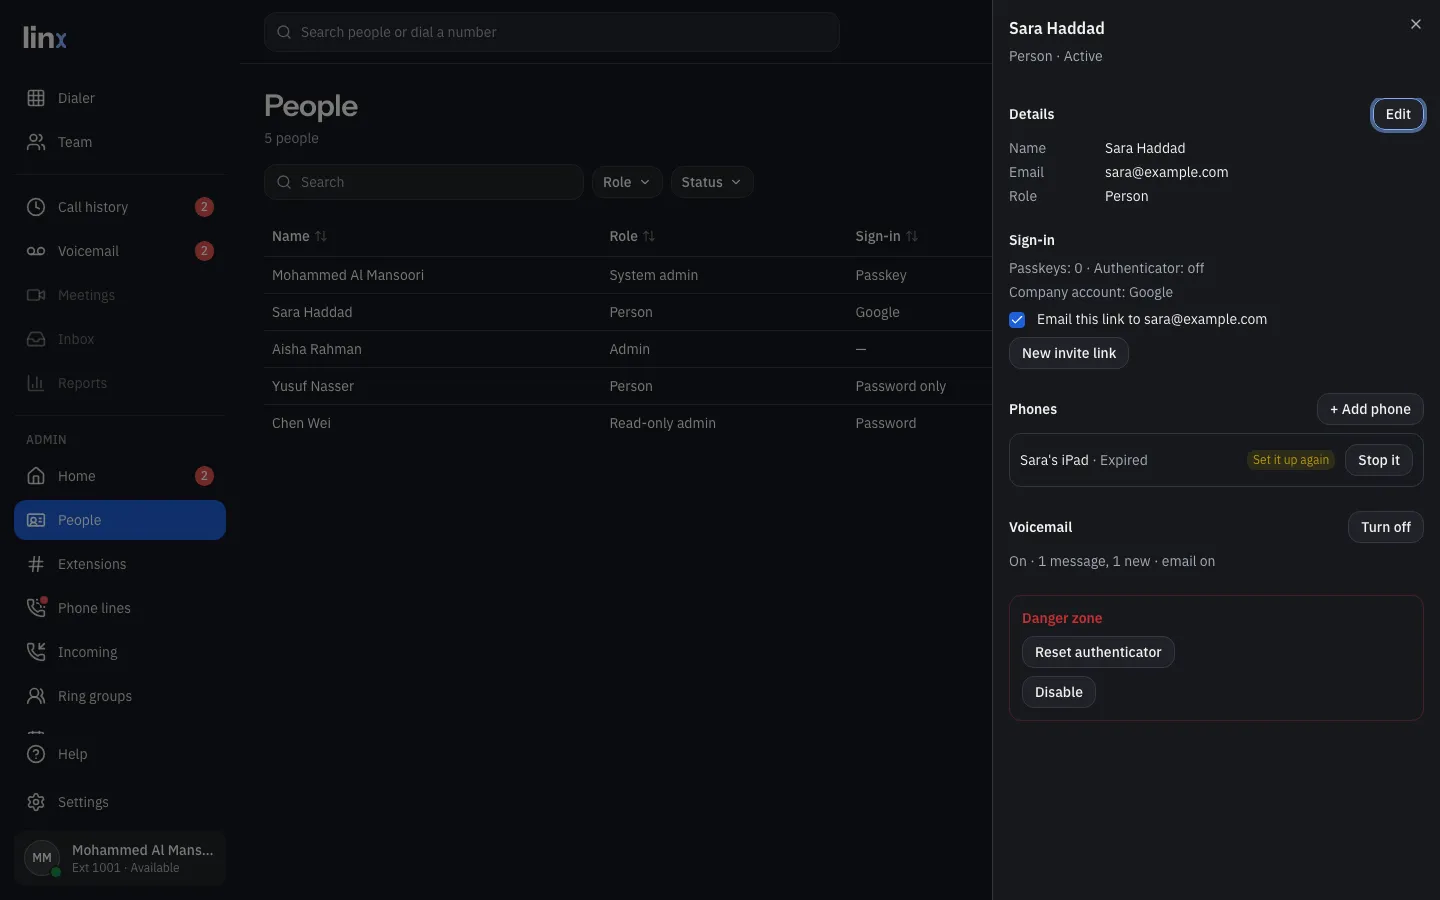
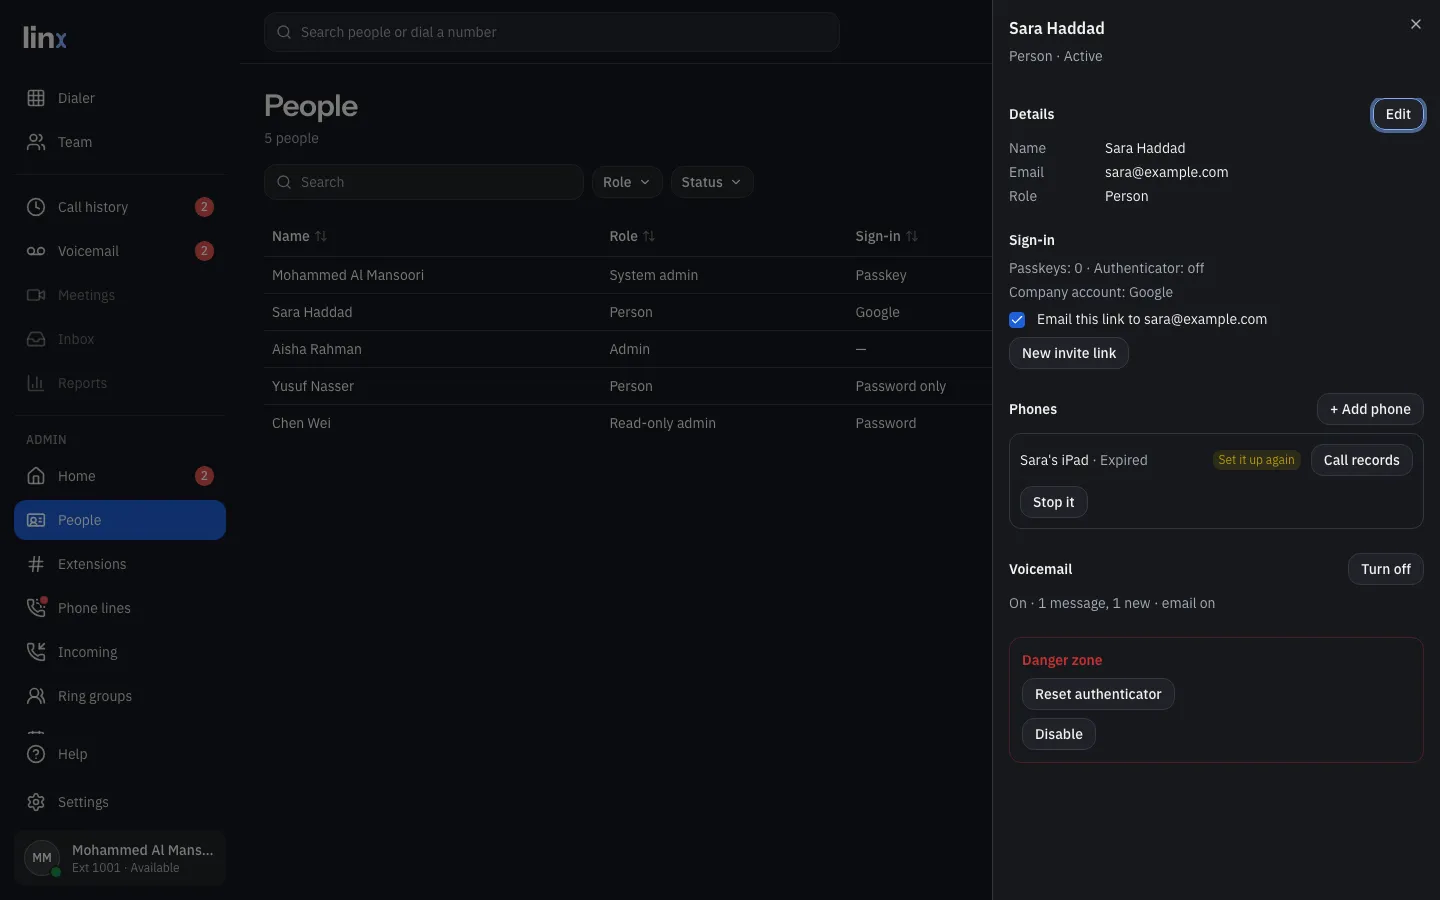
People: Call records beside each iPhone and iPad
Opens the last seven days of what that phone saw of its calls, newest
first, each one expandable with Copy. The help guide's new section 'When
a call went wrong (admins)' says what's in one and what never is.

Claude-Session: https://claude.ai/code/session_01EoSCBWDKWy6VASLQMKqTyy

diff --git a/web/src/components/CallRecords.tsx b/web/src/components/CallRecords.tsx
@@ -1,0 +1,79 @@
+// What an iPhone or iPad saw of its recent calls (internal/callreport): the
+// Linx app sends one after every call, kept seven days. For an admin
+// working out why a call went wrong, without a cable to the phone or
+// someone pasting text from its Call details screen.
+import { useEffect, useState } from "react";
+import { api } from "@/api/client";
+import type { components } from "@/api/schema";
+import { Button } from "@/components/ui/button";
+import { Dialog, DialogContent, DialogDescription, DialogHeader, DialogTitle } from "@/components/ui/dialog";
+
+type Device = components["schemas"]["Device"];
+type CallReport = components["schemas"]["CallReport"];
+
+const when = (iso: string) =>
+  new Date(iso).toLocaleString(undefined, { day: "numeric", month: "short", hour: "2-digit", minute: "2-digit", second: "2-digit" });
+
+/** "Incoming from 201 · 11 Oct, 16:06:10 · 42 s". */
+export function callReportTitle(r: CallReport): string {
+  const way = r.direction === "incoming" ? `Incoming from ${r.peer || "a hidden number"}` : `Outgoing to ${r.peer}`;
+  const secs = r.ended_at ? Math.round((new Date(r.ended_at).getTime() - new Date(r.started_at).getTime()) / 1000) : null;
+  return [way, when(r.started_at), secs === null ? null : `${secs} s`].filter(Boolean).join(" · ");
+}
+
+export function CallRecordsDialog({ device, onClose }: { device: Device | null; onClose: () => void }) {
+  const [reports, setReports] = useState<CallReport[] | null>(null);
+  const [copied, setCopied] = useState<string | null>(null);
+
+  useEffect(() => {
+    if (!device) return;
+    let live = true;
+    setReports(null);
+    void (async () => {
+      const { data } = await api.GET("/api/v1/devices/{id}/call-reports", { params: { path: { id: device.id } } });
+      if (live) setReports(data?.items ?? []);
+    })();
+    return () => { live = false; };
+  }, [device]);
+
+  const copy = async (r: CallReport) => {
+    try {
+      await navigator.clipboard.writeText(r.report);
+      setCopied(r.id);
+    } catch {
+      setCopied(null);
+    }
+  };
+
+  return (
+    <Dialog open={!!device} onOpenChange={(o) => { if (!o) onClose(); }}>
+      <DialogContent className="sm:max-w-2xl">
+        <DialogHeader>
+          <DialogTitle>Call records: {device?.name}</DialogTitle>
+          <DialogDescription>
+            What this phone saw of each call it made or took in the last seven days, newest first. It sends one after
+            every call: how the call was set up, the route it took and the sound in and out. Never the sound itself.
+          </DialogDescription>
+        </DialogHeader>
+        <div className="flex max-h-[60vh] flex-col gap-2 overflow-y-auto">
+          {reports === null && <p className="text-sm text-muted-foreground">Loading…</p>}
+          {reports?.length === 0 && (
+            <p className="text-sm text-muted-foreground">
+              No calls yet. A phone sends its record when a call ends, from Linx app build 19 on.
+            </p>
+          )}
+          {reports?.map((r) => (
+            <details key={r.id} className="rounded-md border p-2.5 text-sm">
+              <summary className="cursor-pointer font-medium">{callReportTitle(r)}</summary>
+              <pre className="mt-2 whitespace-pre-wrap break-words rounded bg-muted p-2 font-mono text-xs">{r.report}</pre>
+              <div className="mt-2 flex items-center gap-2">
+                <Button size="sm" variant="outline" onClick={() => void copy(r)}>Copy</Button>
+                {copied === r.id && <span className="text-xs text-muted-foreground" role="status">Copied.</span>}
+              </div>
+            </details>
+          ))}
+        </div>
+      </DialogContent>
+    </Dialog>
+  );
+}

diff --git a/web/src/screens/People.tsx b/web/src/screens/People.tsx
@@ -6,6 +6,7 @@ import { api, problemMessage, type Me } from "@/api/client";
 import type { components } from "@/api/schema";
 import { AddChooserDialog, useAlwaysQuickAdd } from "@/components/AddChooser";
 import { AddPhoneDialog, PhoneRow } from "@/components/AddPhone";
+import { CallRecordsDialog } from "@/components/CallRecords";
 import { needsConfirm, useConfirmIdentity } from "@/components/ConfirmIdentity";
 import { DataTable } from "@/components/DataTable";
 import { Dot } from "@/components/presence";
@@ -382,6 +383,7 @@ function PhonesSection({ me, user, emailOn }: { me: Me; user: User; emailOn: boo
   const [phones, setPhones] = useState<Device[] | null>(null);
   const [adding, setAdding] = useState(false);
   const [removing, setRemoving] = useState<Device | null>(null);
+  const [records, setRecords] = useState<Device | null>(null);
   const [now, setNow] = useState(() => Date.now());
 
   const load = useCallback(async () => {
@@ -415,11 +417,15 @@ function PhonesSection({ me, user, emailOn }: { me: Me; user: User; emailOn: boo
         {phones?.length === 0 && user.extension_id && <p className="text-sm text-muted-foreground">No iPhone or iPad yet.</p>}
         {phones?.map((d) => (
           <PhoneRow key={d.id} device={d} now={now}
-            actions={<Button size="sm" variant="outline" onClick={() => setRemoving(d)}>Stop it</Button>} />
+            actions={<>
+              <Button size="sm" variant="outline" onClick={() => setRecords(d)}>Call records</Button>
+              <Button size="sm" variant="outline" onClick={() => setRemoving(d)}>Stop it</Button>
+            </>} />
         ))}
       </div>
       <AddPhoneDialog me={me} open={adding} onOpenChange={setAdding} personName={user.name} userId={user.id}
         emailOn={emailOn} isMe={false} onSetUp={() => void load()} />
+      <CallRecordsDialog device={records} onClose={() => setRecords(null)} />
       <Dialog open={!!removing} onOpenChange={(o) => { if (!o) setRemoving(null); }}>
         <DialogContent>
           <DialogHeader>

diff --git a/web/e2e/fakes.ts b/web/e2e/fakes.ts
@@ -746,6 +746,22 @@ export async function fakeServer(page: Page, opts: FakeOptions = {}) {
       if (d) d.revoked_at = now();
       return route.fulfill({ status: 204 });
     }
+    if (devId && p === `/api/v1/devices/${devId}/call-reports` && method === "GET") {
+      const started = new Date(Date.now() - 20 * 60_000);
+      const report = [
+        "Linx call details", "to: 1024", "connection: connected", "route: relayed (udp)",
+        "sound in: 6839 bytes, out: 11725 bytes", "round trip: 214 ms", "found: this network, the internet, Linx's relay",
+        "+2.0 s Answered", "+2.3 s Route now relay/udp → host/udp 172.24.0.2", "+2.4 s First sound arrived",
+        "this phone offered: host/udp, relay/tls, relay/udp, srflx/udp", "routes tried:",
+        "  relay/udp → host/udp 172.24.0.2: succeeded, in use, 214 ms",
+        "sip:", "  +0.0 s ← INVITE", "  +0.0 s → 180 Ringing", "  +2.0 s → 200 OK", "  +2.1 s ← ACK", "  +42.0 s ← BYE",
+      ].join("\n");
+      return route.fulfill(json({ items: [{
+        id: "cr1", call_id: "a84bc93d4c3f@pbx", direction: "incoming", peer: "1024",
+        started_at: started.toISOString(), ended_at: new Date(started.getTime() + 42_000).toISOString(),
+        report, created_at: new Date(started.getTime() + 43_000).toISOString(),
+      }] }));
+    }
     if (devId && p === `/api/v1/devices/${devId}/reset-password` && method === "POST") {
       const d = people.devices.find((x) => x.id === devId);
       if (!d) return route.fulfill(json({ type: "about:blank", title: "Not Found", status: 404, code: "not_found", detail: "No." }, 404));

diff --git a/web/e2e/screens.spec.ts b/web/e2e/screens.spec.ts
@@ -380,6 +380,13 @@ for (const scheme of ["light", "dark"] as const) {
       await expect(page.getByText("Sara's iPad")).toBeVisible();
       await expect(page.getByText("Set it up again")).toBeVisible();
       await shot(page, `${scheme}-person-phones`);
+      // What the phone saw of its calls, for working out what went wrong.
+      await page.getByRole("button", { name: "Call records" }).first().click();
+      await expect(page.getByRole("heading", { name: /Call records:/ })).toBeVisible();
+      await page.getByText(/Incoming from 1024/).click();
+      await expect(page.getByText("route: relayed (udp)", { exact: false })).toBeVisible();
+      await shot(page, `${scheme}-phone-call-records`);
+      await page.keyboard.press("Escape");
       await page.getByRole("button", { name: "+ Add phone" }).click();
       await page.getByRole("radio", { name: "iPad" }).click();
       await page.getByRole("button", { name: "Email a link to Sara" }).click();

diff --git a/docs/help/iphone-and-ipad.md b/docs/help/iphone-and-ipad.md
@@ -127,6 +127,12 @@ My account → **My phones** → **I've lost it**. It stops at once and for good
 
 Even if someone has the phone, they can't use it to be you: the key is inside the phone and can't be copied, and the phone stops by itself after 6 months with no contact. Stopping it also makes Linx forget how to ring it, so nothing more is sent to that phone at all.
 
+## When a call went wrong (admins)
+
+After every call it makes or takes, the app sends Linx a short record of what it saw: how the call was set up, the route it took through the network, the sound in and out, and anything that failed. Never the sound itself, and no passwords. People → the person → **Call records** beside the phone shows the last seven days, newest first. Open one to read it, or **Copy** it to send to whoever looks after your Linx.
+
+It's the same as the **Copy these details** text from the call screen, kept for you, so nobody has to remember to copy it during a call that's going wrong.
+
 ## Settings on the phone
 
 **More** → **Settings**: your status, how this phone's line is doing, which extension it answers, which **Person** it signs in as and which **Linx server** it was set up on, when it would have to be set up again, whether video calls start on the front camera, how calls reach this phone, and **Sign out of this phone**. Two more:
